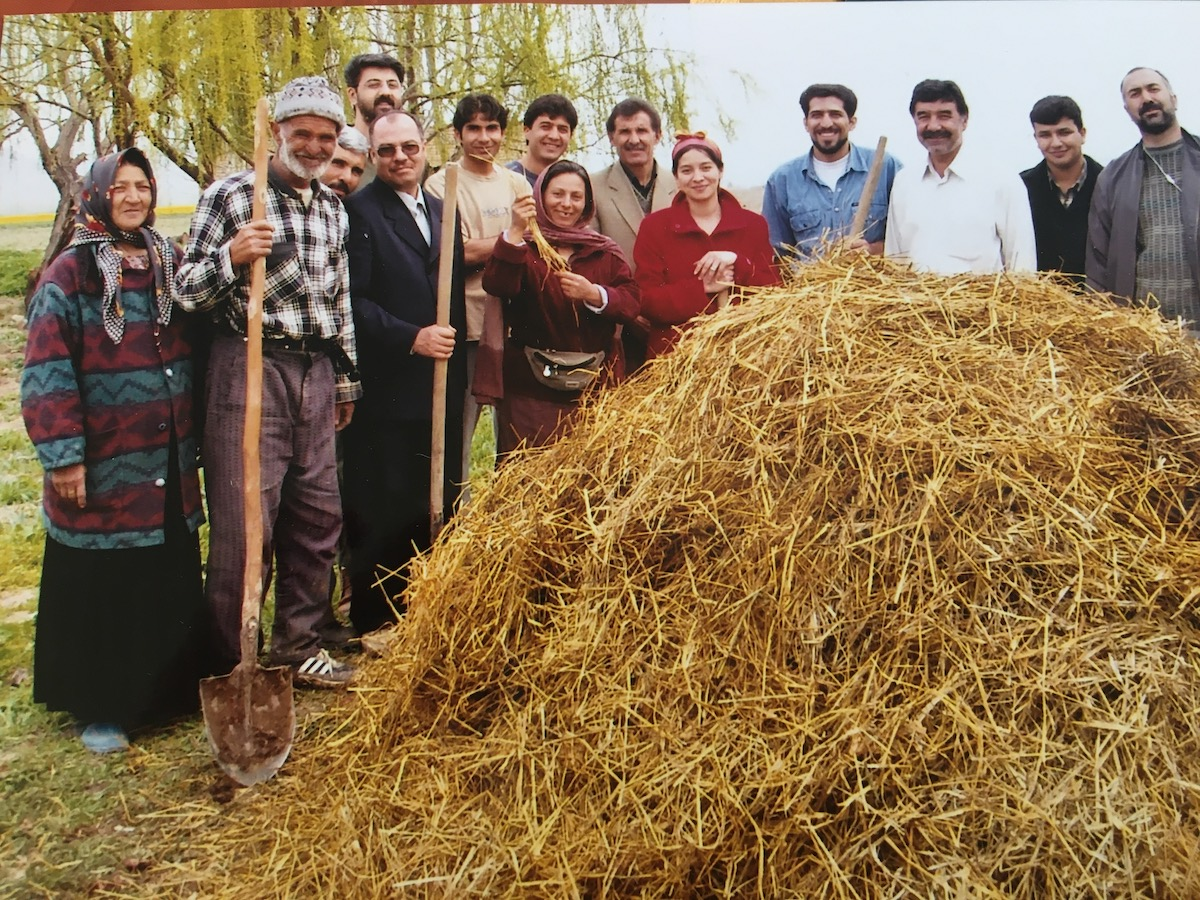
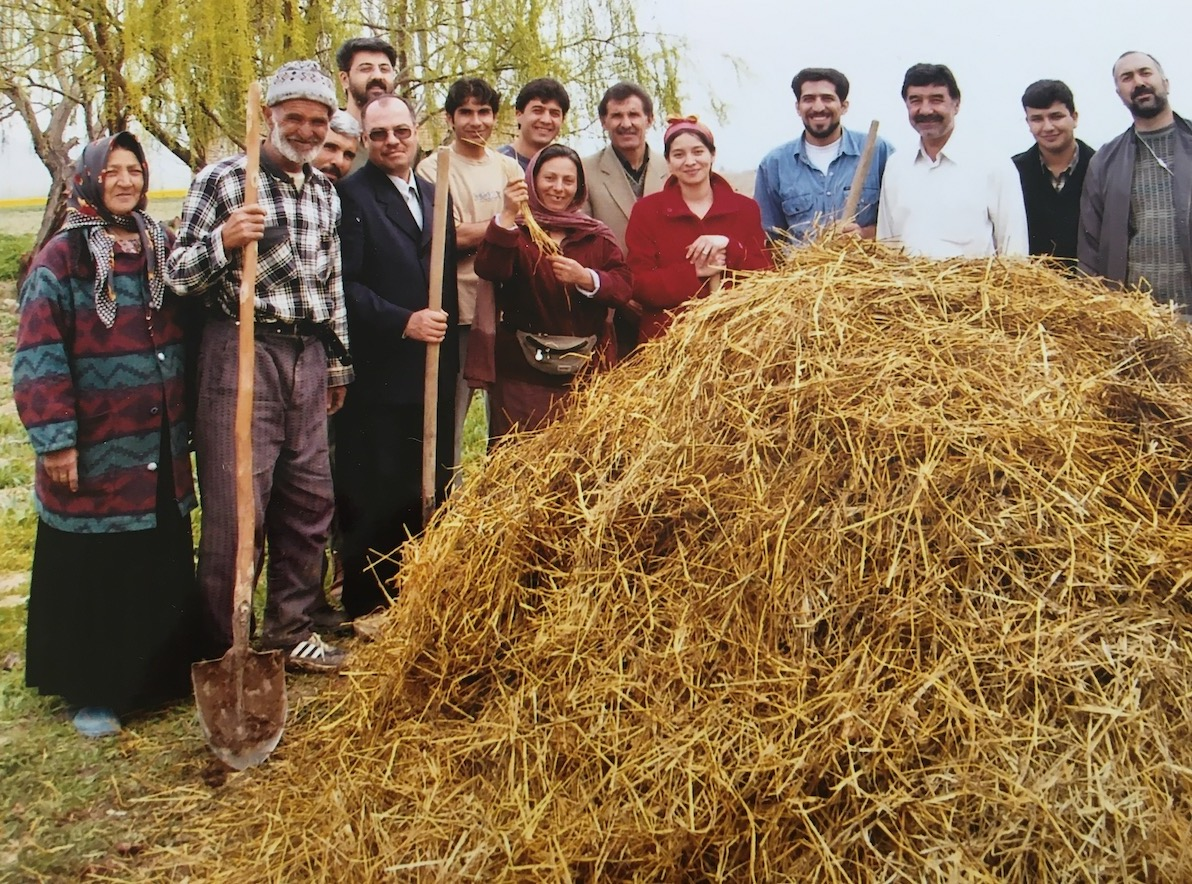
画像差し替え調整

diff --git a/pages/mission.js b/pages/mission.js
@@ -57,7 +57,7 @@ export default function Mission() {
                 </div>
               </div>
               <figure className="mt-10 mb-16 flex justify-center">
-                <img className="sm:h-4/6 sm:w-4/6 rounded-xl bg-gray-50 object-cover" src="/three_findhorn_principles.jpg" alt="three_findhorn_principles" />
+                <img className="sm:h-4/6 sm:w-4/6 rounded-xl bg-gray-50 object-cover" src="/top/top_vision_04.jpg" alt="three_findhorn_principles" />
                 {/* <figcaption className="mt-4 flex gap-x-2 text-sm leading-6 text-gray-500">
                   <InformationCircleIcon className="mt-0.5 h-5 w-5 flex-none text-gray-300" aria-hidden="true" />
                   Faucibus commodo massa rhoncus, volutpat.
